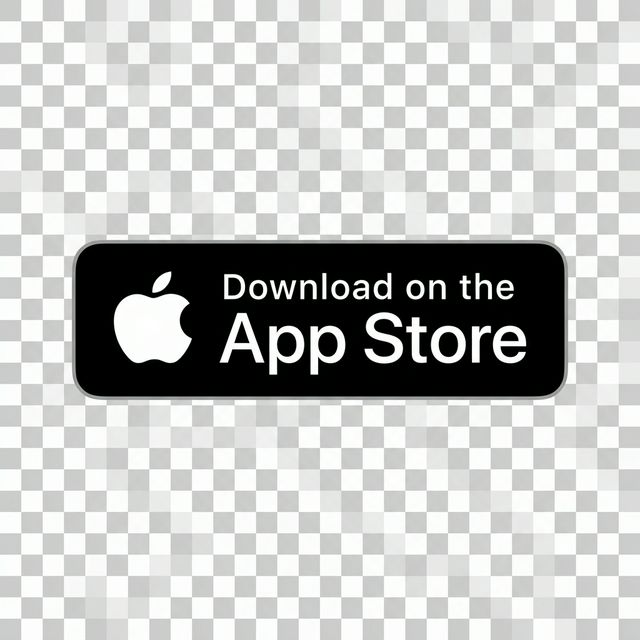
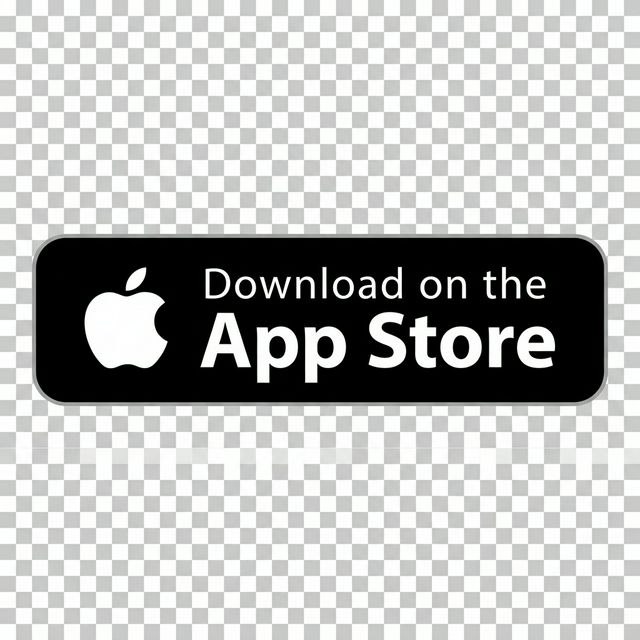
fix: remove white bg from store badges, increase size significantly

diff --git a/src/components/CTA..svelte b/src/components/CTA..svelte
@@ -41,8 +41,7 @@
         transform: scale(0.97);
     }
     .store_badge img {
-        @apply h-16 sm:h-[72px] w-auto rounded-xl shadow-lg;
-        border: 1px solid rgba(255, 255, 255, 0.1);
+        @apply h-20 sm:h-24 w-auto rounded-xl;
     }
     .store_badge:hover img {
         @apply shadow-[0_8px_30px_rgba(58,183,191,0.4)];

diff --git a/src/components/Hero.svelte b/src/components/Hero.svelte
@@ -81,8 +81,7 @@
         transform: scale(0.97);
     }
     .store_badge img {
-        @apply h-14 sm:h-16 w-auto rounded-xl shadow-lg;
-        border: 1px solid rgba(255, 255, 255, 0.15);
+        @apply h-20 sm:h-24 w-auto rounded-xl;
     }
     .store_badge:hover img {
         @apply shadow-[0_8px_30px_rgba(58,183,191,0.35)];

diff --git a/src/components/Footer.svelte b/src/components/Footer.svelte
@@ -64,8 +64,7 @@
         filter: brightness(1.15);
     }
     .footer_badge img {
-        @apply h-11 w-auto rounded-lg shadow-md;
-        border: 1px solid rgba(255, 255, 255, 0.08);
+        @apply h-14 w-auto rounded-lg;
     }
     .footer_badge:hover img {
         @apply shadow-[0_6px_20px_rgba(58,183,191,0.3)];
